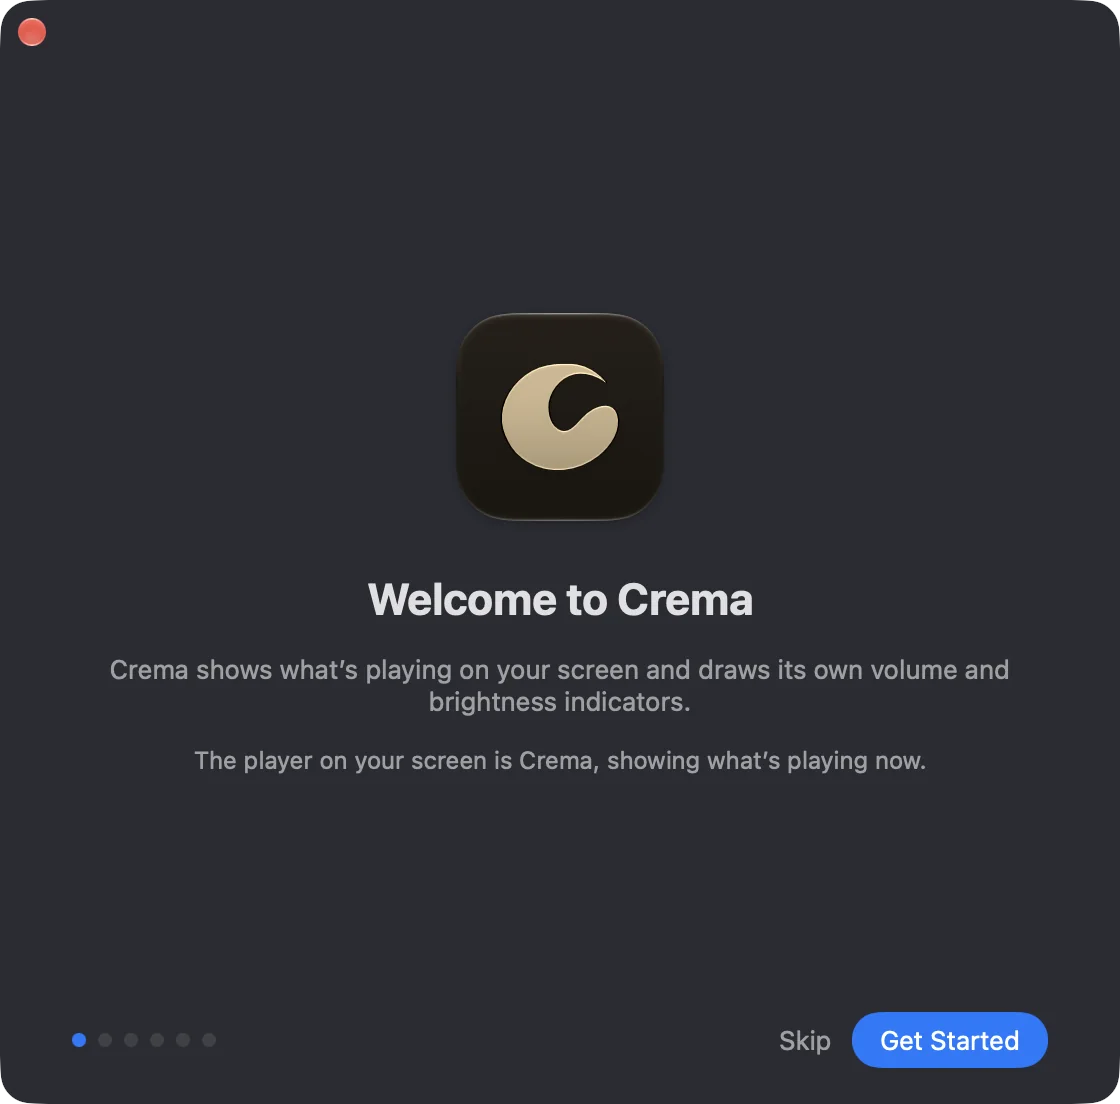
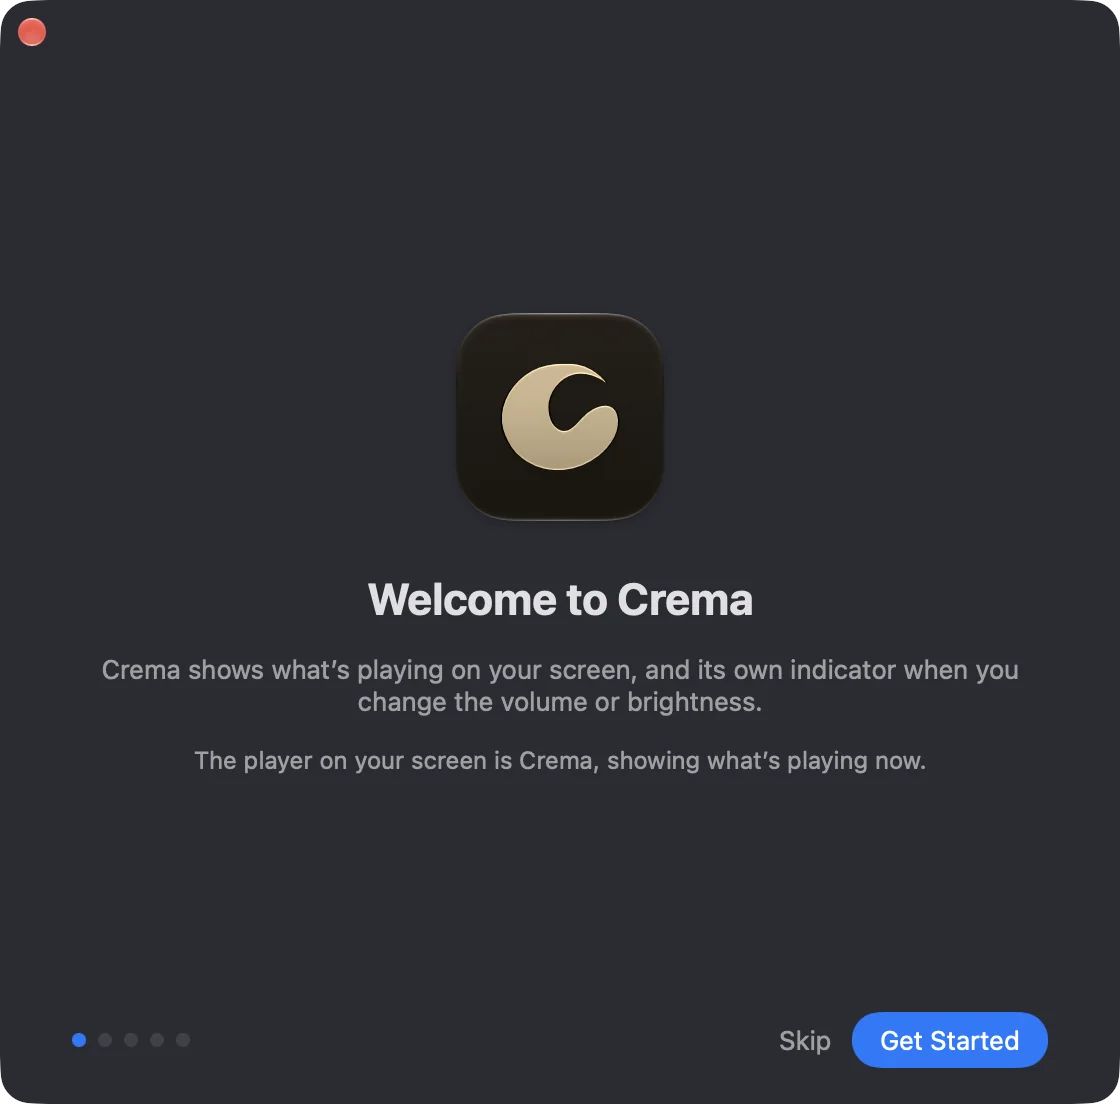
The tour captures show five steps and today's welcome; two stale references go
tour-welcome and tour-accessibility were taken before the tour lost its
"more" step and before the welcome sentence was rewritten: six dots, the
old text. Recaptured with scripts/site-capture/capture.sh; the run's
other captures differed from the committed ones by 0.00-0.05/255 on
average (progress and waveform positions, no change to what they show),
so they stay as they were. settings-about.png (the earlier icon, 1.6.0)
and notch-compact.png were kept as unlinked references and had gone
stale; the site's captures cover both, so they and their mentions go.

Changed region(s): [[0.0938, 0.5851, 0.9062, 0.6467]]

diff --git a/docs/README.md b/docs/README.md
@@ -32,7 +32,7 @@
 - [KNOWN-GAPS.md](https://github.com/colatte/crema/blob/main/docs/KNOWN-GAPS.md) — the deliberate debts in full: for each open gap, the reasoning that made it a decision, the palliative standing in for the fix, and the gate that would reopen it. AGENTS.md lists them one line each.
 - [KEY-LATENCY-INVESTIGATION.md](https://github.com/colatte/crema/blob/main/docs/KEY-LATENCY-INVESTIGATION.md) — an OPEN investigation with no fix: a media key that occasionally lags, with the three candidate profiles mapped to disjoint code paths and the capture that would tell them apart. Nothing is touched until that capture exists.
 - [system-contact-inventory.md](https://github.com/colatte/crema/blob/main/docs/system-contact-inventory.md) — every place the app touches a resource that can die underneath it: where in the code, and what happens when it goes away. Each row names its site, which stays the authority.
-- `assets/` — the web export of the app icon (`icon.png`) and the README's download badge (`download-macos.png`, generated by `design/badge/makedownloadbadge.swift` — regenerate there, never edit by hand). Two captures are kept for reference that no page links yet — the notch at rest (`notch-compact.png`) and the Settings window (`settings-about.png`); naming them here is what keeps a future sweep from reading them as litter.
+- `assets/` — the web export of the app icon (`icon.png`) and the README's download badge (`download-macos.png`, generated by `design/badge/makedownloadbadge.swift` — regenerate there, never edit by hand).
 - `assets/site/` — the captures of the app the landing page and the root README show, and the page's hero video, taken from the real app on the demo sources by [`scripts/site-capture/capture.sh`](https://github.com/colatte/crema/blob/main/scripts/site-capture/capture.sh) and replaced by running it again, never by hand. It takes over the screen for a few minutes, and the notch shots need a built-in display with a notch.
 - `assets/web/` — the icon and the favicon at the sizes the landing page uses, derived from `assets/icon.png` by [`scripts/make-web-assets.sh`](https://github.com/colatte/crema/blob/main/scripts/make-web-assets.sh) and regenerated there, never edited by hand.
 - [appcast.xml](appcast.xml) — the live Sparkle update feed, served by GitHub Pages (/docs from main). `scripts/release.sh` regenerates it on every release, and the file is never touched by hand: each enclosure needs an EdDSA signature only the release tooling produces, and the feed itself is signed, so an edit after generation is an outage rather than a mess (docs/DECISIONS.md: the-feed-signs-itself).

diff --git a/docs/BRAND.md b/docs/BRAND.md
@@ -216,13 +216,8 @@ rule 2 and the one rule of theirs Crema can break by accident.
 
 ## State in the product
 
-Everything above is applied. Two things to keep true:
+Everything above is applied. One thing to keep true:
 
-- `docs/assets/settings-about.png` is a reference capture of the Settings
-  window (unlinked; listed in docs/README.md). It predates the current icon
-  and the About signature becoming prose, and still shows the earlier icon and
-  a glyph — recapture it after the next release build, or leave it knowing it
-  is stale.
 - The icon and the menu bar template are regenerated from `design/icon/`, and
   the download badge from `design/badge/`; none is edited in place. A change
   to the mark or the material is a change to `crema-mark.svg` or
